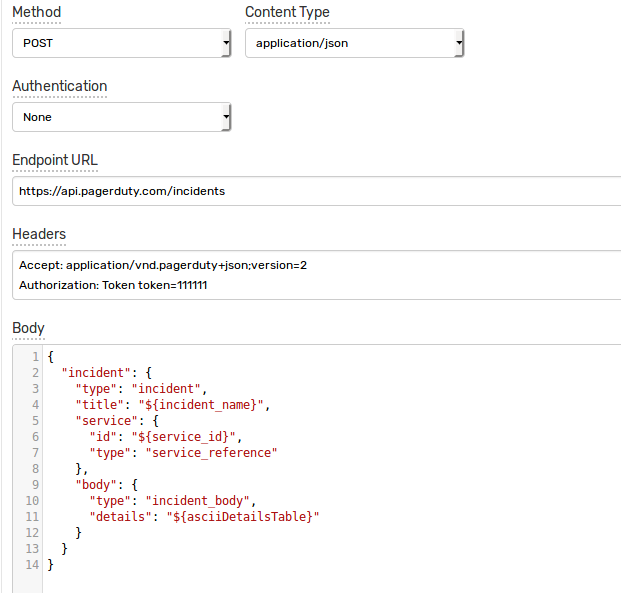
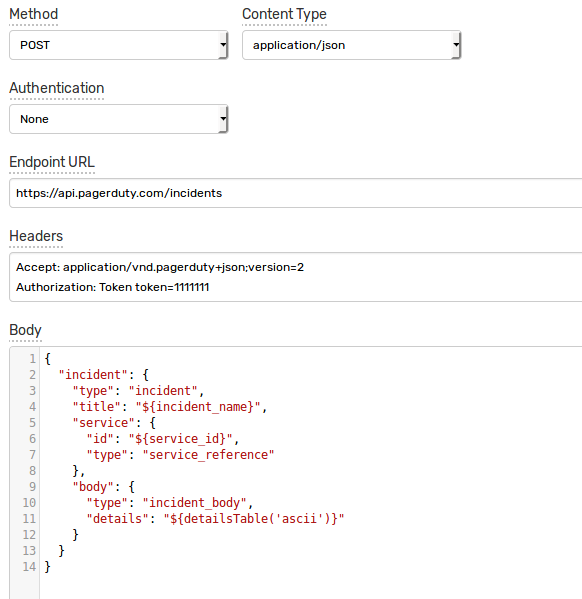
replaced placeholder

diff --git a/rule-engine/notifications/custom-pagerduty.md b/rule-engine/notifications/custom-pagerduty.md
@@ -55,7 +55,7 @@ Enter the following text into the `Body` field:
     },
     "body": {
       "type": "incident_body",
-      "details": "${asciiDetailsTable}"
+      "details": "${detailsTable('ascii')}"
     }
   }
 }
@@ -87,7 +87,7 @@ Open the **Web Notifications** tab.
 
 Set **Enabled** to **Yes** and choose the previously created web notification from the **Endpoint** drop-down.
 
-Enable **Open**, **Repeat** and **Cancel** triggers. Set the **Repeat Interval** to **All**. Leave **asciiDetailsTable** empty.
+Enable **Open**, **Repeat** and **Cancel** triggers. Set the **Repeat Interval** to **All**. Leave **detailsTable('ascii')** empty.
 
 Specify the following settings for **Open** trigger:
 
